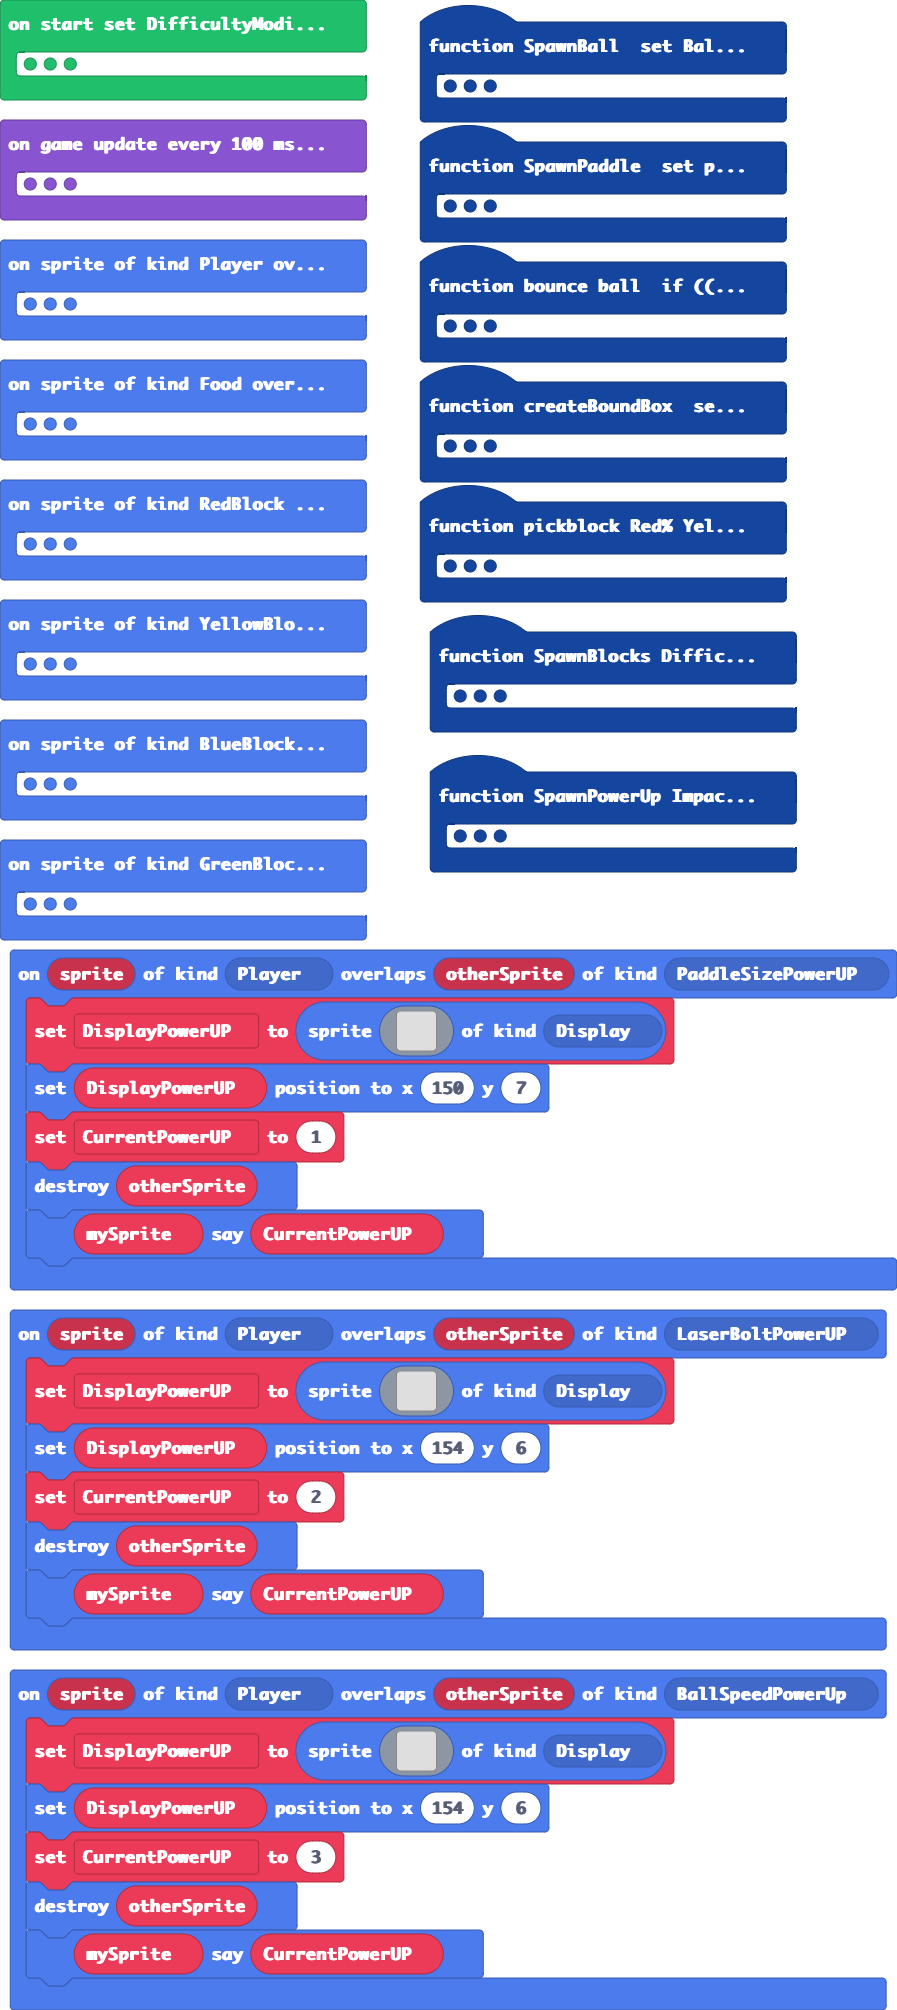
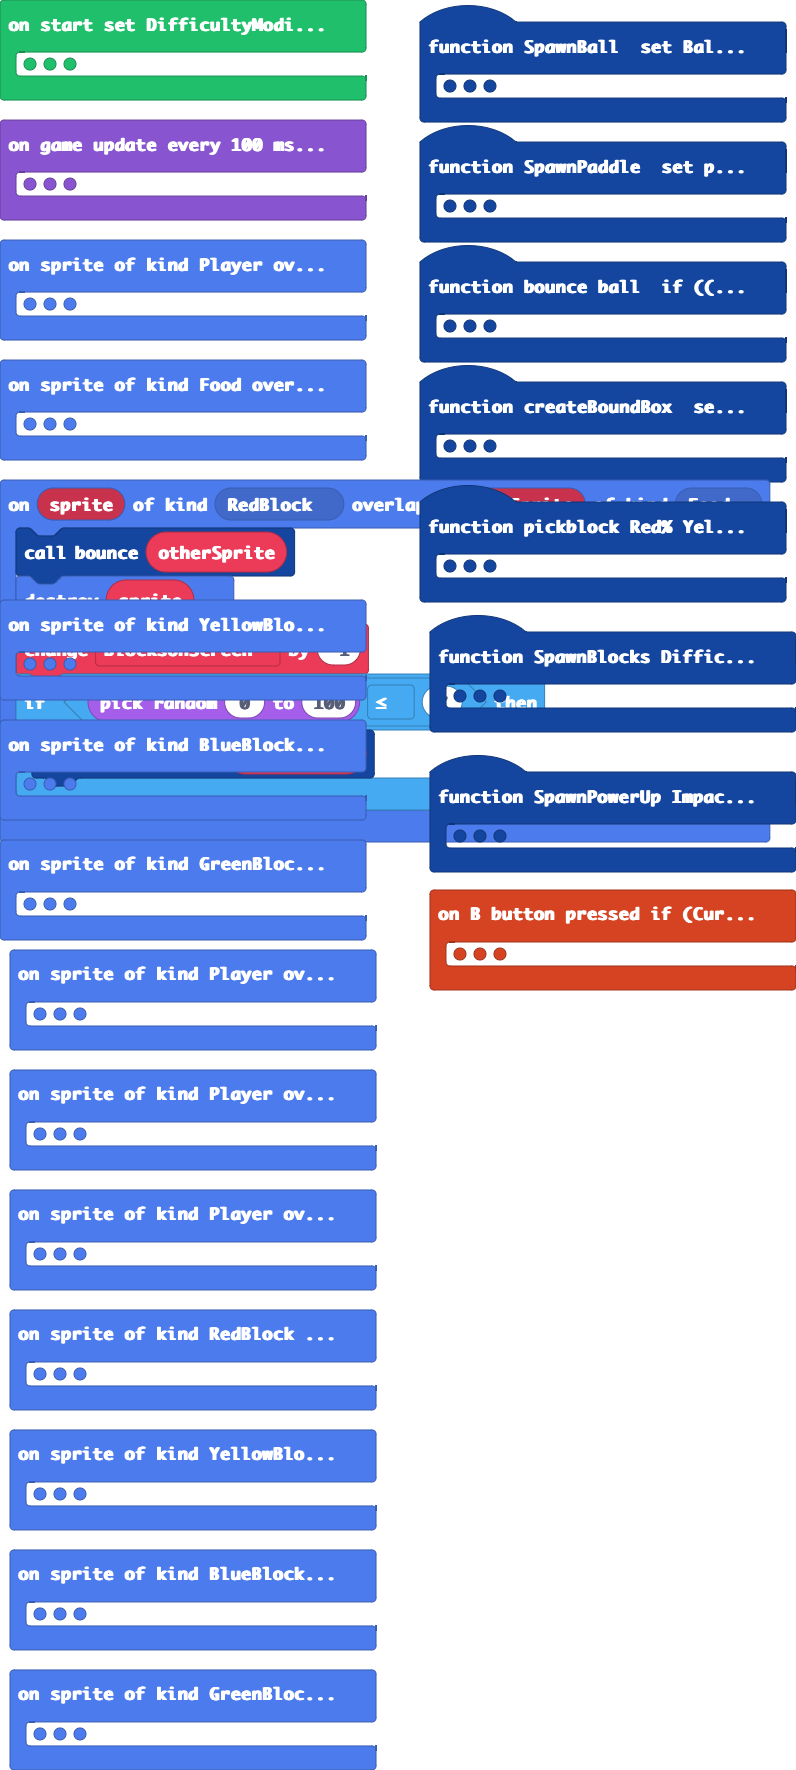
Finished power ups, still needs bug fixes

diff --git a/main.ts b/main.ts
@@ -9,6 +9,19 @@ namespace SpriteKind {
     export const LaserBoltPowerUP = SpriteKind.create()
     export const BallSpeedPowerUp = SpriteKind.create()
 }
+sprites.onOverlap(SpriteKind.Player, SpriteKind.BallSpeedPowerUp, function (sprite, otherSprite) {
+    DisplayPowerUP = sprites.create(img`
+        . . 1 1 . . 
+        . 1 f f 1 . 
+        1 f 1 1 f 1 
+        1 f 1 1 f 1 
+        . 1 f f 1 . 
+        . . 1 1 . . 
+        `, SpriteKind.Display)
+    DisplayPowerUP.setPosition(153, 6)
+    CurrentPowerUP = 3
+    sprites.destroy(otherSprite)
+})
 function createBoundBox () {
     mySprite = sprites.create(img`
         ffffffffffffffffffffffffffffffffffffffffffffffffffffffffffffffffffffffffffffffffffffffffffffffffffffffffffffffffffffffffffffffffffffffffffffffffffffffffffffffffffffffffffffffffffff
@@ -18,33 +31,24 @@ function createBoundBox () {
         `, SpriteKind.BoundingBox)
     mySprite.setPosition(90, 116)
     PowerUpBox = sprites.create(img`
-        1 1 1 1 1 1 1 1 1 1 1 
-        1 . . . . . . . . . 1 
-        1 . . . . . . . . . 1 
-        1 . . . . . . . . . 1 
-        1 . . . . . . . . . 1 
-        1 . . . . . . . . . 1 
-        1 . . . . . . . . . 1 
-        1 . . . . . . . . . 1 
-        1 . . . . . . . . . 1 
-        1 . . . . . . . . . 1 
-        1 1 1 1 1 1 1 1 1 1 1 
+        1 1 1 1 1 1 1 1 1 1 1 1 
+        1 . . . . . . . . . . 1 
+        1 . . . . . . . . . . 1 
+        1 . . . . . . . . . . 1 
+        1 . . . . . . . . . . 1 
+        1 . . . . . . . . . . 1 
+        1 . . . . . . . . . . 1 
+        1 . . . . . . . . . . 1 
+        1 . . . . . . . . . . 1 
+        1 . . . . . . . . . . 1 
+        1 . . . . . . . . . . 1 
+        1 1 1 1 1 1 1 1 1 1 1 1 
         `, SpriteKind.Enemy)
-    PowerUpBox.setPosition(154, 6)
+    PowerUpBox.setPosition(153, 6)
 }
-sprites.onOverlap(SpriteKind.Player, SpriteKind.LaserBoltPowerUP, function (sprite, otherSprite) {
-    DisplayPowerUP = sprites.create(img`
-        . . 1 1 . . 
-        . 1 2 2 1 . 
-        1 1 2 2 1 1 
-        1 1 2 2 1 1 
-        . 1 2 2 1 . 
-        . . 1 1 . . 
-        `, SpriteKind.Display)
-    DisplayPowerUP.setPosition(154, 6)
-    CurrentPowerUP = 2
-    sprites.destroy(otherSprite)
-    mySprite.sayText(CurrentPowerUP)
+sprites.onOverlap(SpriteKind.YellowBlock, SpriteKind.Projectile, function (sprite, otherSprite) {
+    sprites.destroy(sprite)
+    BlocksOnScreen += -1
 })
 function SpawnBlocks (Difficulty: number, StartRed: number, StartYellow: number, StartBlue: number) {
     RedBlock = sprites.create(img`
@@ -94,19 +98,51 @@ function SpawnBlocks (Difficulty: number, StartRed: number, StartYellow: number,
         BlockX = 5
     }
 }
-sprites.onOverlap(SpriteKind.Player, SpriteKind.PaddleSizePowerUP, function (sprite, otherSprite) {
-    DisplayPowerUP = sprites.create(img`
-        . . 1 1 . . 
-        . 1 1 1 1 . 
-        1 9 9 9 9 1 
-        1 9 9 9 9 1 
-        . 1 1 1 1 . 
-        . . 1 1 . . 
-        `, SpriteKind.Display)
-    DisplayPowerUP.setPosition(150, 7)
-    CurrentPowerUP = 1
-    sprites.destroy(otherSprite)
-    mySprite.sayText(CurrentPowerUP)
+controller.B.onEvent(ControllerButtonEvent.Pressed, function () {
+    if (CurrentPowerUP > 0) {
+        if (CurrentPowerUP == 1) {
+            paddle.scale = 1 + 1 * DifficultyModifier
+            pause(5000)
+            paddle.scale = 1
+            CurrentPowerUP = 0
+            DisplayPowerUP = sprites.create(img`
+                . . . . . . 
+                . . . . . . 
+                . . . . . . 
+                . . . . . . 
+                . . . . . . 
+                . . . . . . 
+                `, SpriteKind.Display)
+        } else if (CurrentPowerUP == 2) {
+            projectile = sprites.createProjectileFromSprite(img`
+                2 2 
+                2 2 
+                2 2 
+                2 2 
+                2 2 
+                `, paddle, 0, -50)
+            CurrentPowerUP = 0
+            DisplayPowerUP = sprites.create(img`
+                . . . . . . 
+                . . . . . . 
+                . . . . . . 
+                . . . . . . 
+                . . . . . . 
+                . . . . . . 
+                `, SpriteKind.Display)
+        } else if (CurrentPowerUP == 3) {
+            Ball.setVelocity(randint(20, 80), randint(20, 80))
+            CurrentPowerUP = 0
+            DisplayPowerUP = sprites.create(img`
+                . . . . . . 
+                . . . . . . 
+                . . . . . . 
+                . . . . . . 
+                . . . . . . 
+                . . . . . . 
+                `, SpriteKind.Display)
+        }
+    }
 })
 function bounce (ball: Sprite) {
     if (Ball.vx < 0) {
@@ -117,6 +153,10 @@ function bounce (ball: Sprite) {
     BallYSPeed = BallYSPeed * -1
     Ball.setVelocity(ballXSpeed, BallYSPeed)
 }
+sprites.onOverlap(SpriteKind.BlueBlock, SpriteKind.Projectile, function (sprite, otherSprite) {
+    sprites.destroy(sprite)
+    BlocksOnScreen += -1
+})
 function SpawnBall () {
     Ball = sprites.create(img`
         . 1 1 . 
@@ -130,6 +170,31 @@ function SpawnBall () {
     Ball.setVelocity(ballXSpeed, BallYSPeed)
     Ball.setBounceOnWall(true)
 }
+sprites.onOverlap(SpriteKind.RedBlock, SpriteKind.Food, function (sprite, otherSprite) {
+    bounce(otherSprite)
+    sprites.destroy(sprite)
+    BlocksOnScreen += -1
+    if (randint(0, 100) <= 7) {
+        SpawnPowerUp(otherSprite)
+    }
+})
+sprites.onOverlap(SpriteKind.RedBlock, SpriteKind.Projectile, function (sprite, otherSprite) {
+    sprites.destroy(sprite)
+    BlocksOnScreen += -1
+})
+sprites.onOverlap(SpriteKind.Player, SpriteKind.LaserBoltPowerUP, function (sprite, otherSprite) {
+    DisplayPowerUP = sprites.create(img`
+        . . 1 1 . . 
+        . 1 2 2 1 . 
+        1 1 2 2 1 1 
+        1 1 2 2 1 1 
+        . 1 2 2 1 . 
+        . . 1 1 . . 
+        `, SpriteKind.Display)
+    DisplayPowerUP.setPosition(153, 6)
+    CurrentPowerUP = 2
+    sprites.destroy(otherSprite)
+})
 sprites.onOverlap(SpriteKind.YellowBlock, SpriteKind.Food, function (sprite, otherSprite) {
     bounce(otherSprite)
     pause(100)
@@ -146,11 +211,11 @@ sprites.onOverlap(SpriteKind.YellowBlock, SpriteKind.Food, function (sprite, oth
 })
 function SpawnPaddle () {
     paddle = sprites.create(img`
-        9999999999999999999999999999999999999999999999999999999999999999999999999999999999999999999999999999999999999999999999999999999999999999999999999999999999999999
-        9999999999999999999999999999999999999999999999999999999999999999999999999999999999999999999999999999999999999999999999999999999999999999999999999999999999999999
-        9999999999999999999999999999999999999999999999999999999999999999999999999999999999999999999999999999999999999999999999999999999999999999999999999999999999999999
-        9999999999999999999999999999999999999999999999999999999999999999999999999999999999999999999999999999999999999999999999999999999999999999999999999999999999999999
-        9999999999999999999999999999999999999999999999999999999999999999999999999999999999999999999999999999999999999999999999999999999999999999999999999999999999999999
+        9 9 9 9 9 9 9 9 9 9 9 9 9 9 9 9 
+        9 9 9 9 9 9 9 9 9 9 9 9 9 9 9 9 
+        9 9 9 9 9 9 9 9 9 9 9 9 9 9 9 9 
+        9 9 9 9 9 9 9 9 9 9 9 9 9 9 9 9 
+        9 9 9 9 9 9 9 9 9 9 9 9 9 9 9 9 
         `, SpriteKind.Player)
     paddleSpeed = 150
     paddle.setStayInScreen(true)
@@ -206,28 +271,6 @@ sprites.onOverlap(SpriteKind.GreenBlock, SpriteKind.Food, function (sprite, othe
         SpawnPowerUp(otherSprite)
     }
 })
-sprites.onOverlap(SpriteKind.RedBlock, SpriteKind.Food, function (sprite, otherSprite) {
-    bounce(otherSprite)
-    sprites.destroy(sprite)
-    BlocksOnScreen += -1
-    if (randint(0, 100) <= 7) {
-        SpawnPowerUp(otherSprite)
-    }
-})
-sprites.onOverlap(SpriteKind.Player, SpriteKind.BallSpeedPowerUp, function (sprite, otherSprite) {
-    DisplayPowerUP = sprites.create(img`
-        . . 1 1 . . 
-        . 1 f f 1 . 
-        1 f 1 1 f 1 
-        1 f 1 1 f 1 
-        . 1 f f 1 . 
-        . . 1 1 . . 
-        `, SpriteKind.Display)
-    DisplayPowerUP.setPosition(154, 6)
-    CurrentPowerUP = 3
-    sprites.destroy(otherSprite)
-    mySprite.sayText(CurrentPowerUP)
-})
 function SpawnPowerUp (ImpactBlock: Sprite) {
     PaddleSizePowerUP = sprites.create(img`
         . . 1 1 . . 
@@ -271,9 +314,26 @@ function SpawnPowerUp (ImpactBlock: Sprite) {
         mySprite3.setVelocity(0, 15)
     }
 }
+sprites.onOverlap(SpriteKind.GreenBlock, SpriteKind.Projectile, function (sprite, otherSprite) {
+    sprites.destroy(sprite)
+    BlocksOnScreen += -1
+})
 sprites.onOverlap(SpriteKind.Player, SpriteKind.Food, function (sprite, otherSprite) {
     bounce(otherSprite)
     otherSprite.setPosition(otherSprite.x, sprite.top - 1)
+})
+sprites.onOverlap(SpriteKind.Player, SpriteKind.PaddleSizePowerUP, function (sprite, otherSprite) {
+    DisplayPowerUP = sprites.create(img`
+        . . 1 1 . . 
+        . 1 1 1 1 . 
+        1 9 9 9 9 1 
+        1 9 9 9 9 1 
+        . 1 1 1 1 . 
+        . . 1 1 . . 
+        `, SpriteKind.Display)
+    DisplayPowerUP.setPosition(153, 6)
+    CurrentPowerUP = 1
+    sprites.destroy(otherSprite)
 })
 let mySprite3: Sprite = null
 let PowerUPChooser = 0
@@ -282,16 +342,16 @@ let LaserBoltPowerUP: Sprite = null
 let PaddleSizePowerUP: Sprite = null
 let PickBlockVariable = 0
 let paddleSpeed = 0
-let paddle: Sprite = null
 let BallYSPeed = 0
 let ballXSpeed = 0
 let Ball: Sprite = null
+let projectile: Sprite = null
+let paddle: Sprite = null
 let mySprite2: Sprite = null
 let CurrentBlock: Sprite = null
 let gap = 0
 let BlockY = 0
 let BlockX = 0
-let BlocksOnScreen = 0
 let BluePercent = 0
 let YellowPercent = 0
 let RedPercent = 0
@@ -299,11 +359,13 @@ let GreenBlock: Sprite = null
 let BlueBlock: Sprite = null
 let YellowBlock: Sprite = null
 let RedBlock: Sprite = null
-let DisplayPowerUP: Sprite = null
+let BlocksOnScreen = 0
 let PowerUpBox: Sprite = null
 let mySprite: Sprite = null
+let DisplayPowerUP: Sprite = null
 let CurrentPowerUP = 0
 let DifficultyModifier = 0
+DifficultyModifier = 0
 let StartRed = 50
 let StartYellow = 85
 let StartBlue = 100
